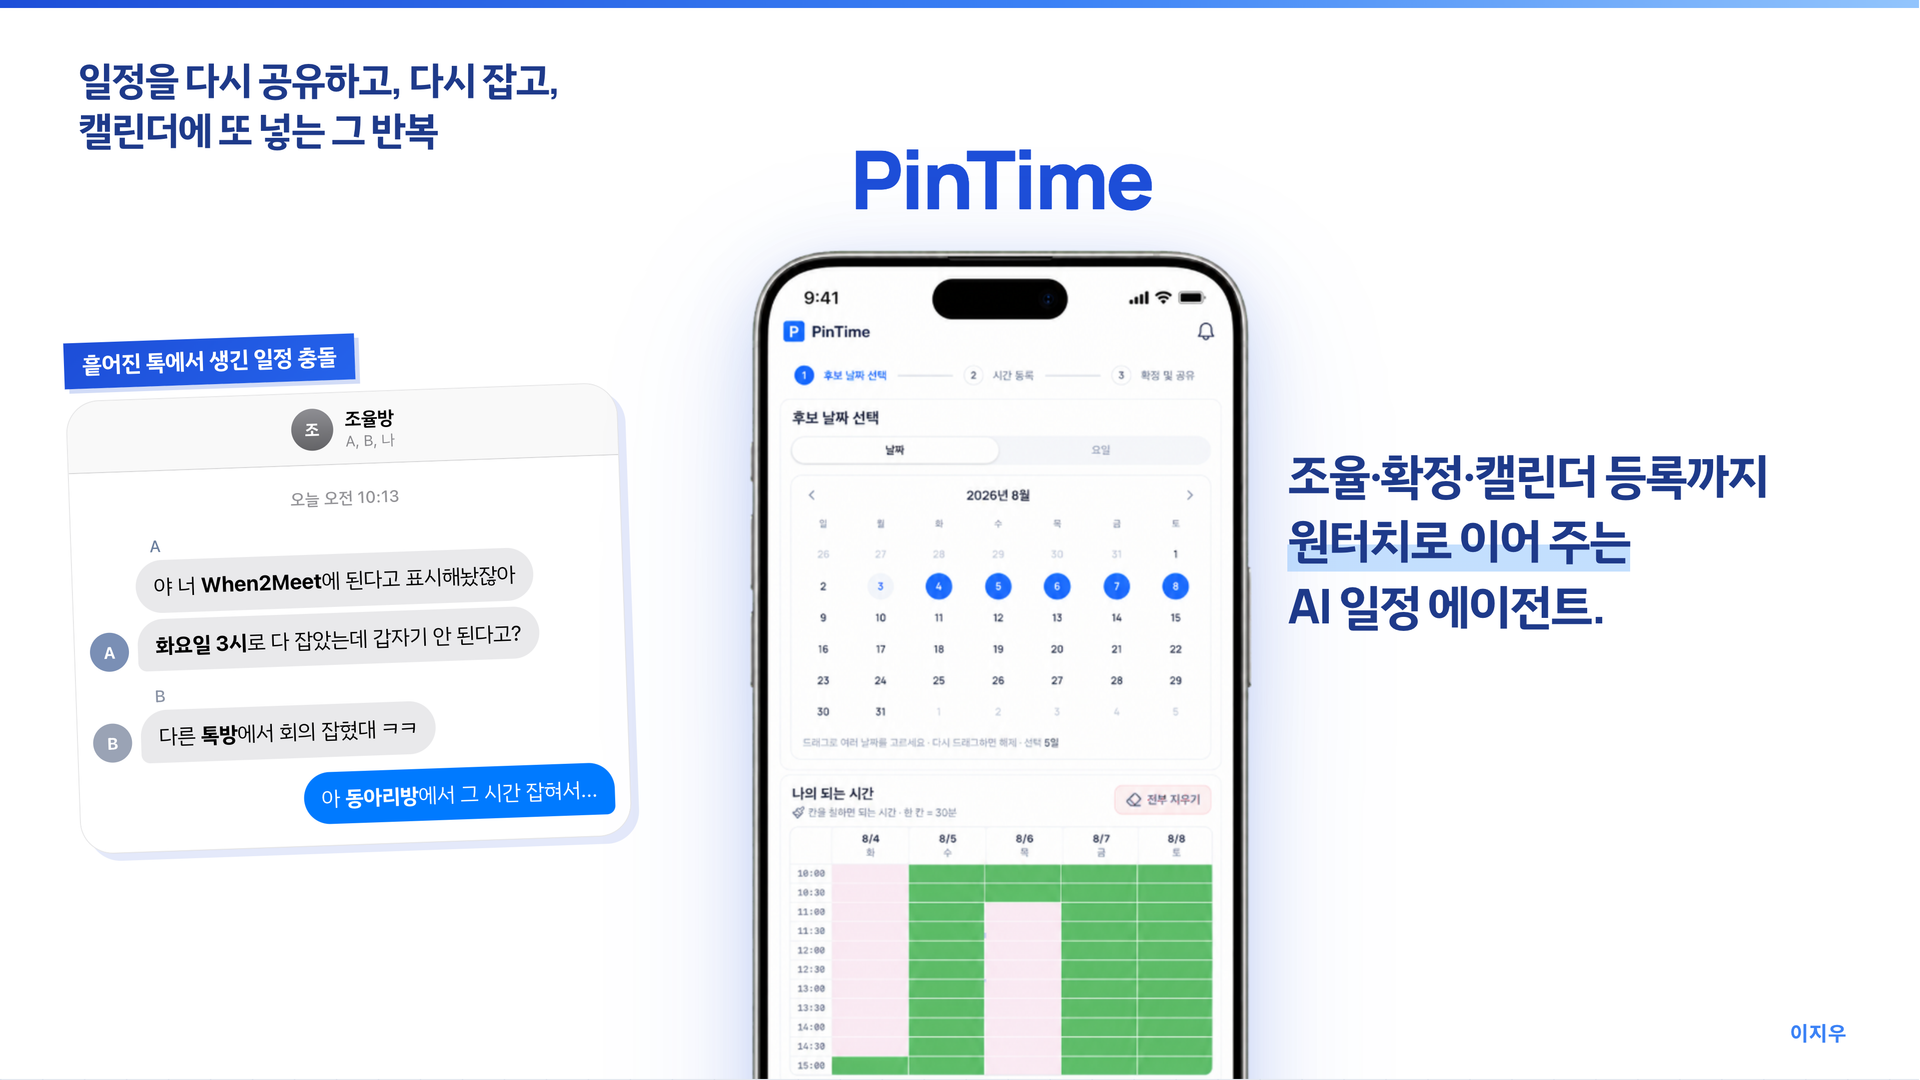
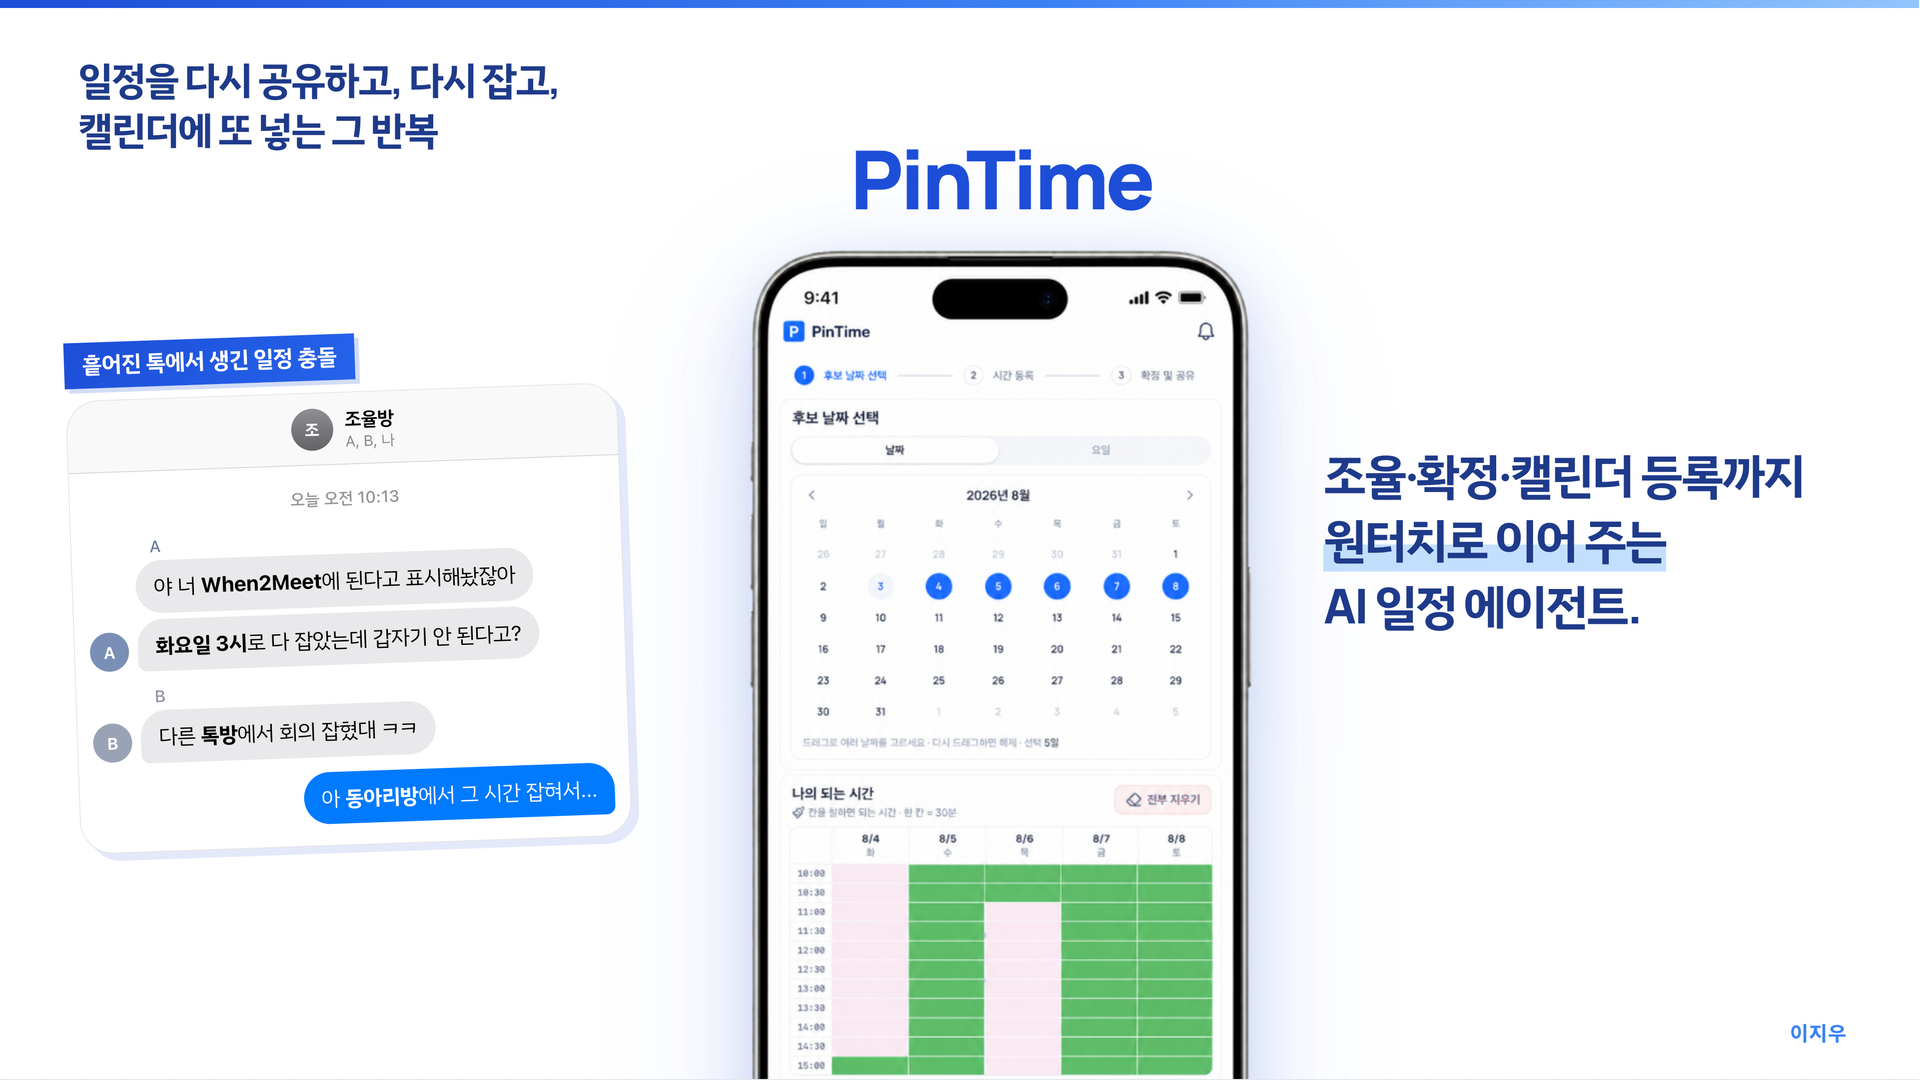
Pull cover tagline closer to the phone.

Changed region(s): [[0.6562, 0.3972, 0.9375, 0.5806]]

diff --git a/public/pitch.html b/public/pitch.html
@@ -1489,7 +1489,7 @@
       .cover-tagline {
         position: absolute;
         top: 50%;
-        right: 1.05in;
+        right: 0.8in;
         transform: translateY(-50%);
         margin: 0;
         max-width: 5.4in;
